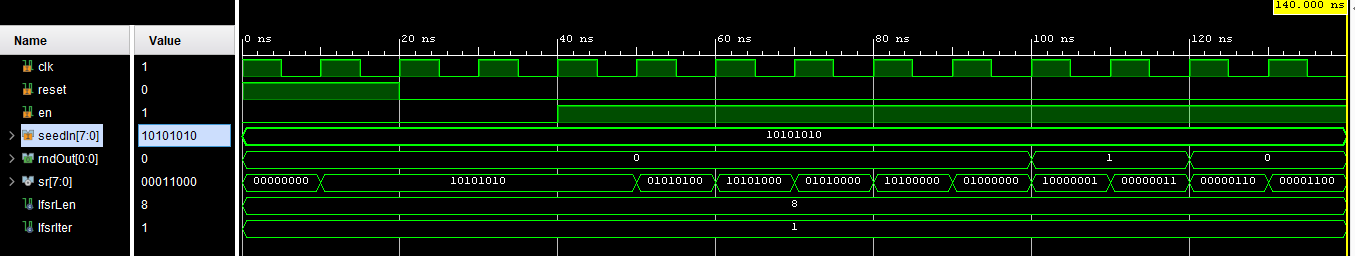
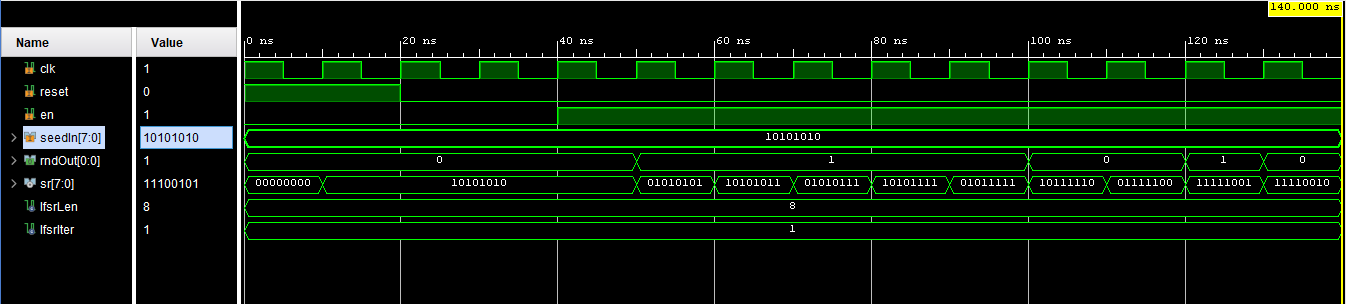
Update

diff --git a/lfsr.py b/lfsr.py
@@ -56,7 +56,7 @@ def generate_vhdl(lfsrLen,tapList,lfsrIter,templatePath,outputPath):
 if __name__ == "__main__":
     # Example (I)
     lfsrLen=8
-    tapList=[7,6,5,4]
+    tapList=[7,5,4,3]
     lfsrIter=1
     templatePath="lfsr_template.vhd"
     outputPath="Examples/8Bit_1Iter/lfsr.vhd"
@@ -64,7 +64,7 @@ if __name__ == "__main__":
 
     # Example (II)
     lfsrLen=8
-    tapList=[7,6,5,4]
+    tapList=[7,5,4,3]
     lfsrIter=8
     templatePath="lfsr_template.vhd"
     outputPath="Examples/8Bit_8Iter/lfsr.vhd"
